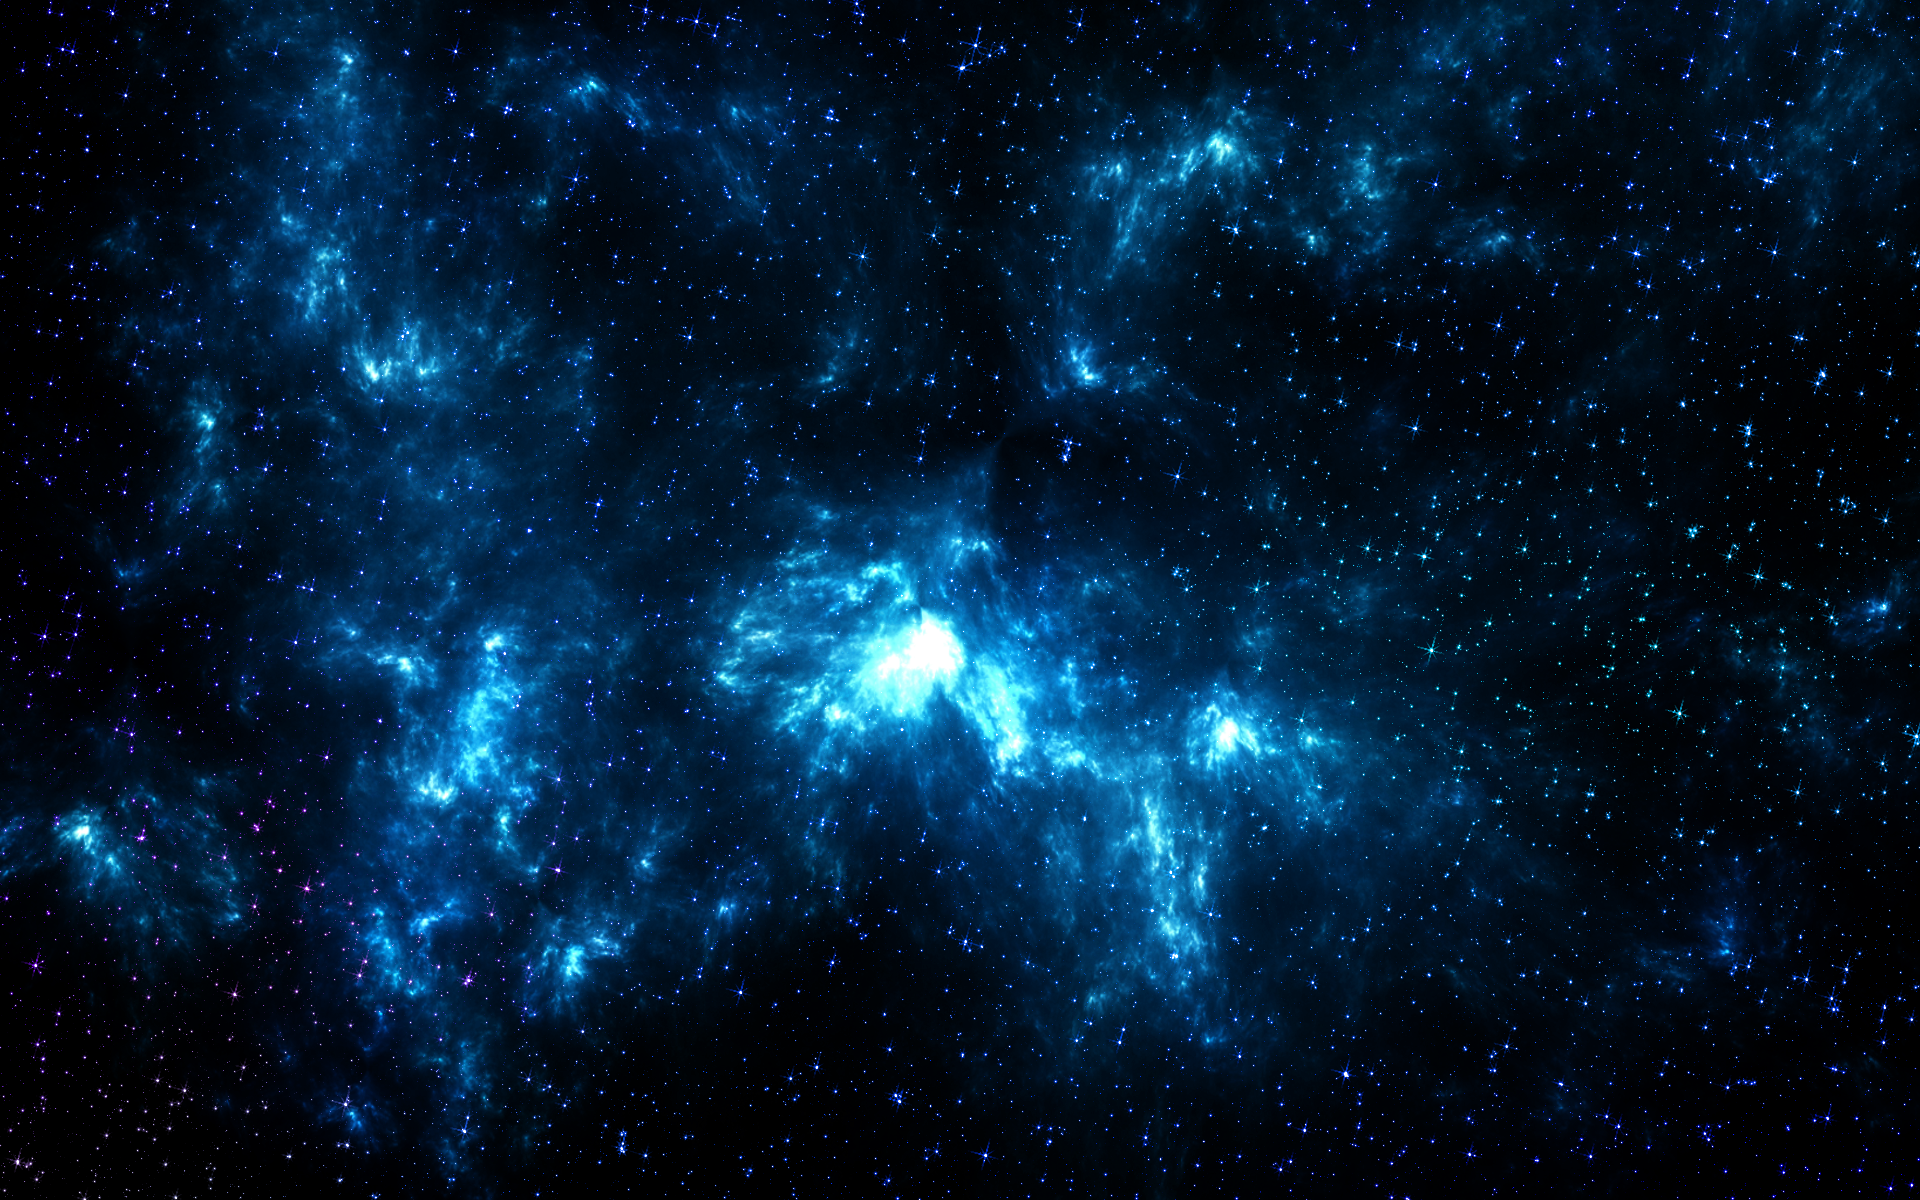
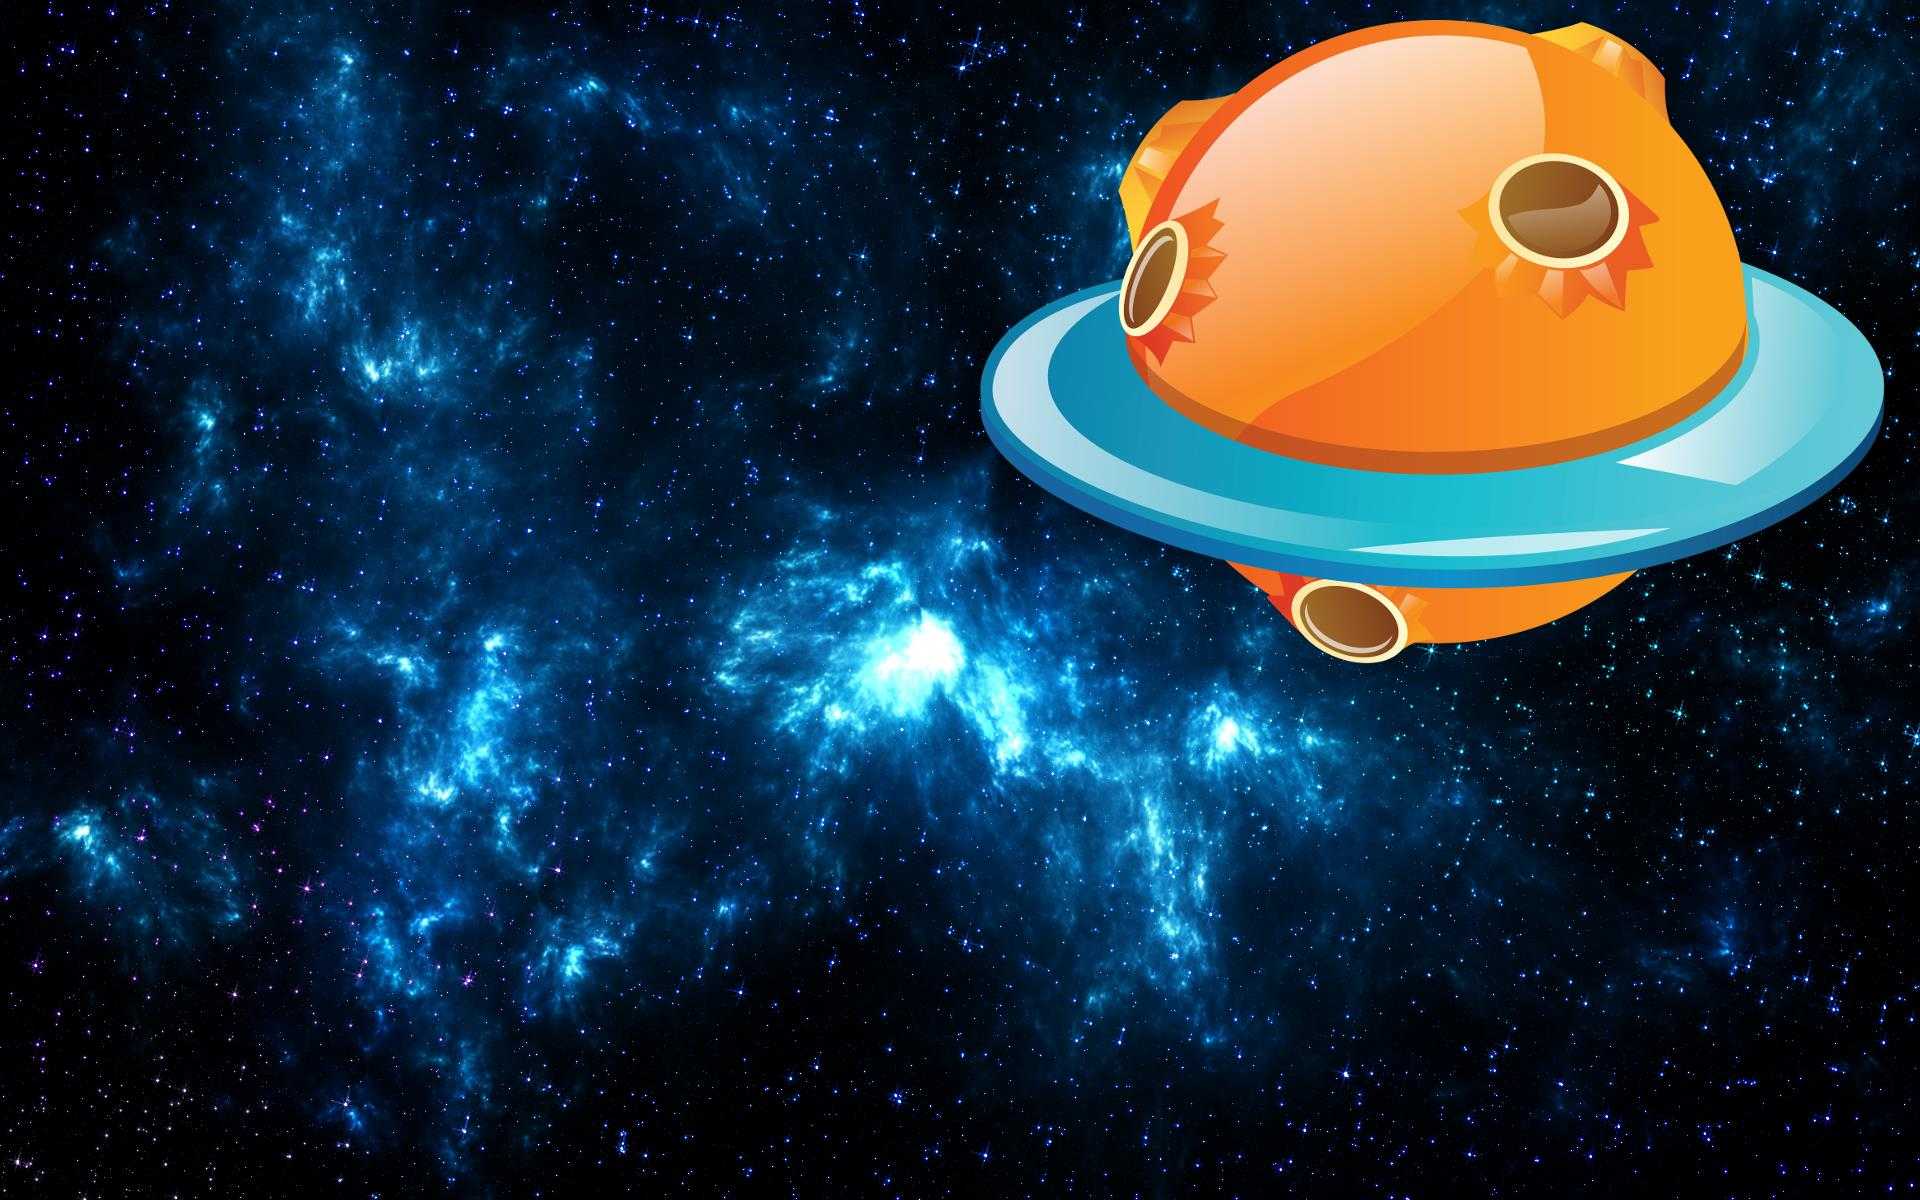
Добавлены окна выхода из приложения по ESC

diff --git a/objects/gui/ExitButton.py b/objects/gui/ExitButton.py
@@ -5,23 +5,35 @@ import objects.gui.StartScreen
 
 
 class ExitButton():
-    def __init__(self,holder,rect):
+    def __init__(self,holder,rect,log):
+        self.log = log
         self.holder = holder
         self.rect = rect
+        self.yesRect = pygame.Rect(self.rect[0],self.rect[1]+self.rect[3]//2,self.rect[2]//2,self.rect[3]//2)
+        self.noRect = pygame.Rect(self.rect[0]+self.rect[2]//2, self.rect[1]+self.rect[3] // 2, self.rect[2] // 2, self.rect[3] // 2)
+        self.image = pygame.transform.scale(ResourceManager.ResourceManager.instResources()["dialog.png"],(rect[2], rect[3]))
+        self.font = pygame.font.SysFont("comicsansms", self.rect[3]//10)
+        self.text = self.font.render(log, True,pygame.Color("black"))
+        self.show = False
         if isinstance(holder, objects.gui.StartScreen.StartScreen):
-            self.image = pygame.transform.scale(ResourceManager.ResourceManager.instResources()["exit.png"], (rect[2], rect[3]))
             self.type = "SS"
         else:
-            self.image = pygame.transform.scale(
-                ResourceManager.ResourceManager.instResources()["back.png"], (rect[2], rect[3]))
             self.type = "GE"
     def render(self):
+        if not self.show: return False
         self.holder.screen.blit(self.image, (self.rect[0], self.rect[1]))
+        self.holder.screen.blit(self.text,(self.rect[0]+self.rect[2]//2-self.text.get_rect()[2]//2,self.rect[1]+self.text.get_rect()[3]))
     def get_event(self,event):
         if event.type == pygame.MOUSEBUTTONDOWN:
-            if event.button == 1 and self.rect.collidepoint(event.pos):
+            if event.button == 1 and self.yesRect.collidepoint(event.pos):
+                self.show = False
                 if self.type == "SS":
                     self.holder.running = False
                     self.holder.gameEngine.running = False
                 else:
                     self.holder.run_start_screen()
+            if event.button == 1 and self.noRect.collidepoint(event.pos):
+                self.show = False
+        if event.type == pygame.KEYUP:
+            if event.key == pygame.K_ESCAPE:
+                self.show = True

diff --git a/objects/engine/GameEngine.py b/objects/engine/GameEngine.py
@@ -59,10 +59,13 @@ class GameEngine:
         self.startScreen.AddComponent(objects.gui.SwitchPageButton.SwitchPageButton(self.startScreen,-1,pygame.Rect(1500*cx,40*cy,120*cx,150*cy)))
         self.startScreen.AddComponent(objects.gui.SwitchPageButton.SwitchPageButton(self.startScreen,1,pygame.Rect(1700*cx,40*cy,120*cx,150*cy)))
         self.startScreen.AddComponent(objects.gui.Scroller.Scroller(self.startScreen,pygame.Rect(1500*cx,300*cy,240*cx,60*cy)))
-        self.startScreen.AddComponent(objects.gui.ExitButton.ExitButton(self.startScreen,pygame.Rect(50*cx,800*cy,200*cx,200*cy)))
+        self.startScreen.AddComponent(objects.gui.ExitButton.ExitButton(self.startScreen,
+                                                                        pygame.Rect(530 * cx, 320 * cy, 860 * cx,
+                                                                                    440 * cy),"Are you sure to want to exit?"))
         self.startScreen.AddComponent(objects.gui.Text.Text(self.startScreen,(1500*cx,230*cy),"Gravity",int(50*cy),pygame.Color("black")))
         self.startScreen.run()
-        self.exitButton = objects.gui.ExitButton.ExitButton(self,pygame.Rect(885*cx,0,150*cx,150*cy))
+        self.exitButton = objects.gui.ExitButton.ExitButton(self,pygame.Rect(530*cx,320*cy,860*cx,440*cy),
+                                                            "Are you sure to want to exit?")
 
     def run_start_screen(self):
         self.startScreen.running = True
@@ -113,9 +116,11 @@ class GameEngine:
             for event in pygame.event.get():
                 if event.type == pygame.QUIT:
                     self.running = False
-                ResourceManager.ResourceManager.instObjectManager().get_event(event)
                 self.exitButton.get_event(event)
+                if not self.exitButton.show:
+                    ResourceManager.ResourceManager.instObjectManager().get_event(event)
             self.clock.tick(self.fps)
-            self.on_loop()
+            if not self.exitButton.show:
+                self.on_loop()
             self.on_render()
         self.on_cleanup()

diff --git a/objects/gui/StartScreen.py b/objects/gui/StartScreen.py
@@ -1,5 +1,5 @@
 import pygame
-
+import objects.gui.ExitButton
 import ResourceManager
 
 class StartScreen():
@@ -9,19 +9,25 @@ class StartScreen():
         self.components = []
         self.running = True
         self.page = 0
+        self.exitButton = None
     def AddComponent(self,comp):
         self.components.append(comp)
+        if isinstance(comp,objects.gui.ExitButton.ExitButton):
+            self.exitButton = comp
     def load_level(self,levelname):
         self.gameEngine.load_level(levelname)
         self.running = False
     def run(self):
         while self.running:
-            self.screen.fill(pygame.Color("black"))
             for event in pygame.event.get():
                 if event.type == pygame.QUIT:
                     self.running = False
                     self.gameEngine.running = False
-                for e in self.components: e.get_event(event)
+                if not self.exitButton.show:
+                    for e in self.components: e.get_event(event)
+                else:
+                    self.exitButton.get_event(event)
+            self.screen.fill(pygame.Color("black"))
             self.screen.blit(pygame.transform.scale(ResourceManager.ResourceManager.instResources()["background.png"],
                                                     (ResourceManager.ResourceManager.instGameCFG().screenwidth,
                                                      ResourceManager.ResourceManager.instGameCFG().screenheight)), (0, 0))
